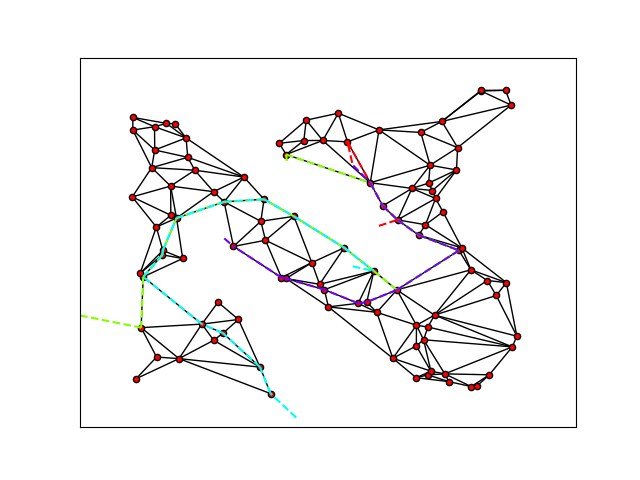
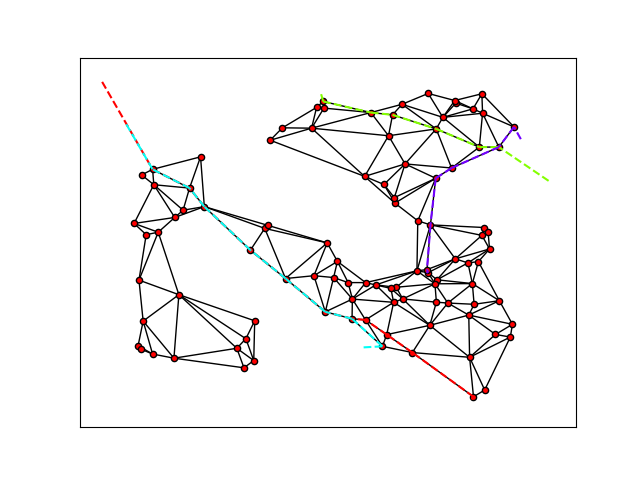
var odrm working with libpysal

diff --git a/roadmaps/var_odrm_torch/var_odrm_torch.py b/roadmaps/var_odrm_torch/var_odrm_torch.py
@@ -1,5 +1,6 @@
-import random
+#!/usr/bin/env python3
 from functools import lru_cache
+from random import Random
 
 import matplotlib.pyplot as plt
 import networkx as nx
@@ -16,6 +17,7 @@ from tools import ProgressBar
 
 dtype = torch.float
 device = torch.device("cpu")
+DISTANCE = "distance"
 
 
 def read_map(fname: str):
@@ -28,7 +30,7 @@ def read_map(fname: str):
     return tuple(data)
 
 
-@lru_cache
+# @lru_cache  # this slowed things down a lot. TODO: investigate
 def is_coord_free(map_img, point):
     size = len(map_img)
     return map_img[
@@ -38,7 +40,7 @@ def is_coord_free(map_img, point):
     ] >= 255
 
 
-@lru_cache
+# @lru_cache  # this slowed things down a lot. TODO: investigate
 def is_pixel_free(map_img, point):
     return map_img[
         int(point[0])
@@ -55,48 +57,31 @@ def check_edge(pos, map_img, a, b):
         int(pos[b][0]*size),
         int(pos[b][1]*size)
     )
-    # print(list(line))
     return all([is_pixel_free(map_img, tuple(x)) for x in line])
 
 
-def sample_points(n, map_img):
+def sample_points(n, map_img, rng: Random):
     points = np.empty(shape=(0, 2))
     while points.shape[0] < n:
-        point = np.random.random([2])
-        if is_coord_free(map_img, tuple(point)):
-            points = np.append(points, [point.T], axis=0)
+        point = (rng.random(), rng.random())
+        if is_coord_free(map_img, point):
+            points = np.append(points, [np.array(point)], axis=0)
     return torch.tensor(points, device=device,
                         dtype=dtype, requires_grad=True)
 
 
 def make_graph(pos, map_img):
     """Convert array of node positions into graph by Delaunay Triangulation."""
-    n_nodes = pos.shape[0]
-    g = nx.Graph()
     pos_np = pos.detach().numpy()
-    # to discourage too many edges parallel to walls,
-    # these will be ignored after Delaunay because they are not added by any
-    # edge below.
-    n_fn = 5
-    # fake_nodes = np.array(
-    #     [(0.01, 1/n_fn*i) for i in range(n_fn+1)] +
-    #     [(1, 1/n_fn*i) for i in range(n_fn+1)] +
-    #     [(1/n_fn*i, 0.01) for i in range(n_fn+1)] +
-    #     [(1/n_fn*i, 1) for i in range(n_fn+1)]
-    # )
-    # pos_np = np.append(pos_np, fake_nodes, axis=0)
     cells, _ = voronoi_frames(pos_np, clip="bbox")
     delaunay = weights.Rook.from_dataframe(cells)
     g = delaunay.to_networkx()
-    nx.set_edge_attributes(g, [], 'distance')
-    for e in g.edges():
-        a, b = e
-        if a >= n_nodes or b >= n_nodes:
-            g.remove_edge(a, b)
-        elif not check_edge(pos, map_img, a, b):
+    nx.set_edge_attributes(g, [], DISTANCE)
+    for a, b in g.edges():
+        if not check_edge(pos, map_img, a, b):
             g.remove_edge(a, b)
         else:
-            g.edges[e]['distance'] = np.linalg.norm(pos_np[a] - pos_np[b])
+            g.edges[(a, b)][DISTANCE] = np.linalg.norm(pos_np[a] - pos_np[b])
     return g
 
 
@@ -144,7 +129,7 @@ def draw_graph(g, pos, paths=[]):
 
 def plan_path_between_nodes(g, start, goal):
     try:
-        return nx.shortest_path(g, start, goal, 'distance')
+        return nx.shortest_path(g, start, goal, DISTANCE)
     except (NetworkXNoPath, nx.NodeNotFound):
         return None
 
@@ -162,14 +147,14 @@ def plan_path_between_coordinates(g, flann, start, goal):
         return None
 
 
-def make_paths(g, pos, n_paths, seed=random.randint(0, 10E6)):
+def make_paths(g, pos, n_paths, rng):
     pos_np = pos.detach().numpy()
     flann = FLANN()
     flann.build_index(np.array(pos_np))
     paths = []
     for i in range(n_paths):
-        np.random.seed(seed+i)
-        [start, goal] = np.random.random((2, 2))
+        start = (rng.random(), rng.random())
+        goal = (rng.random(), rng.random())
         path = plan_path_between_coordinates(g, flann, start, goal)
         if path is not None:
             paths.append(path)
@@ -203,10 +188,10 @@ def get_paths_len(pos, paths):
     return torch.sum(all_lens)
 
 
-def optimize_poses(g, pos, map_img, optimizer):
-    test_paths = make_paths(g, pos, 20, 0)
+def optimize_poses(g, pos, map_img, optimizer, rng):
+    test_paths = make_paths(g, pos, 20, rng)
     test_length = get_paths_len(pos, test_paths)
-    training_paths = make_paths(g, pos, 10)
+    training_paths = make_paths(g, pos, 10, rng)
     training_length = get_paths_len(pos, training_paths)
     _ = training_length.backward()
     optimizer.step()
@@ -220,23 +205,23 @@ if __name__ == "__main__":
     epochs = 300
     learning_rate = 1e-4
     stats_every = int(epochs / 50)
-    map_fname: str = "../odrm/odrm_eval/maps/z.png"
+    map_fname: str = "roadmaps/odrm/odrm_eval/maps/z.png"
+    rng = Random(0)
 
-    random.seed(0)
     map_img = read_map(map_fname)
-    pos = sample_points(n, map_img)
+    pos = sample_points(n, map_img, rng)
     g = make_graph(pos, map_img)
-    test_paths = make_paths(g, pos, 20, 0)
+    test_paths = make_paths(g, pos, 20, rng)
 
     optimizer = torch.optim.Adam([pos], lr=learning_rate)
     test_costs = []
 
     draw_graph(g, pos, test_paths[:4])
-    plt.savefig("pre_training.png")
+    plt.savefig("roadmaps/var_odrm_torch/pre_training.png")
     pb = ProgressBar("Training", epochs)
     for i_e in range(epochs):
         g, pos, test_length, training_length = optimize_poses(
-            g, pos, map_img, optimizer)
+            g, pos, map_img, optimizer, rng)
         if i_e % stats_every == stats_every-1:
             print(f"test_length: {test_length}")
             print(f"training_length: {training_length}")
@@ -245,9 +230,9 @@ if __name__ == "__main__":
     pb.end()
 
     draw_graph(g, pos, test_paths[:4])
-    plt.savefig("post_training.png")
+    plt.savefig("roadmaps/var_odrm_torch/post_training.png")
 
     plt.figure()
     plt.plot(test_costs)
-    plt.savefig("test_length.png")
+    plt.savefig("roadmaps/var_odrm_torch/test_length.png")
     plt.show()
